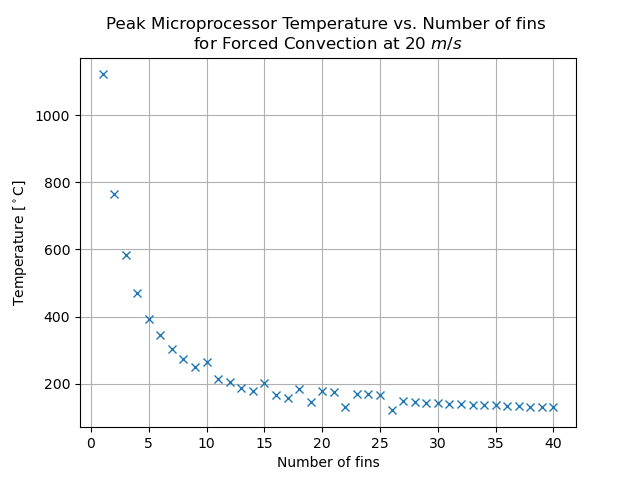
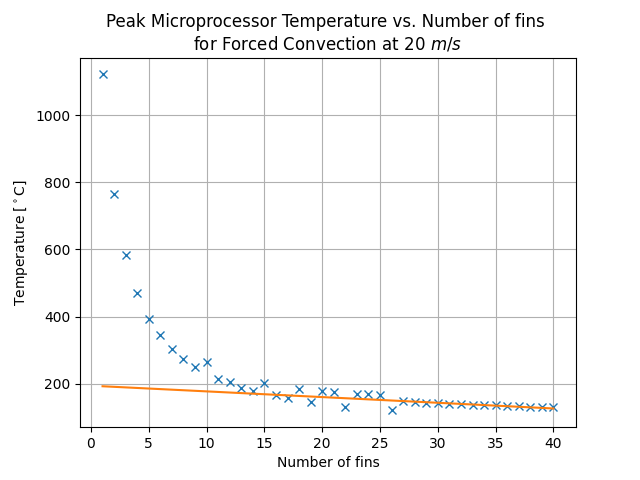
done

diff --git a/project_4/main.py b/project_4/main.py
@@ -3,6 +3,20 @@ import numpy as np
 import os
 import time
 
+##################################################################################
+###################################### Note ######################################
+##################################################################################
+
+# Github copilot was used throughout this project, it was used for:
+#    - completing sentences for comenting
+#    - write similar code to code that were already written by hand for another similar situations 
+#    - auto fill values for default parameters for functions that written and set by me 
+
+# it was not used for:
+#    - writing code from scratch, that was not similar to code that was already written by hand
+#    - desgining any of the structures or writting entire functions
+#    - providing computational methods that were not already given to me
+
 
 # each block runs independently, only uncomment sections being used
 
@@ -271,33 +285,33 @@ def find_ini_T(lower_limit, upper_limit, max_iterations=2000, max_repeat=20, cas
 # print(data)
 # np.savetxt('project_4\\forced_convection\\ini_T_change_height__fin_num.txt', data, fmt='%f')
 
-with open('project_4\\forced_convection\\ini_T_change_height__fin_num.txt', 'r') as file:
-    lines = file.readlines()
-last_tried_values = []
-for line in lines:
-    if 'last tried :' in line:
-        last_tried = line.split(':')[1].strip()
-        last_tried = float(last_tried.split(' ')[0])
-        last_tried_values.append(last_tried)
-last_tried_values = np.array(last_tried_values)
-ini_temps = np.reshape(last_tried_values, (16,10))
-print(ini_temps)
-highest_Ts = np.zeros((16, 10))
-for i in range(0, 10):
-    for j in range(10, 16):
-        ini_temp = ini_temps[j,i]
-        sink = cg.grid(case_dim=[20e-3,2e-3], sink_dim=[4e-3,(i+1)*5e-3,1e-3,1e-3,j+15], nat_conv=False, delta=[0.5e-3,0.5e-3], v=20, ini_temp=ini_temp)
-        try:
-            os.mkdir(f'project_4\\forced_convection\\5pt_per_mm\\change_fin_height__fin_num\\height_{(i+1)*5}_fins_{j+15}')
-        except:
-            pass
-        highest_T = sink.iterate_K(max_iterations=20000, save=True, save_every=20000, save_folder=f'forced_convection\\5pt_per_mm\\change_fin_height__fin_num\\height_{(i+1)*5}_fins_{j+15}' , return_highest_T=True, tolerance=0.01)
-        highest_Ts[j, i] = highest_T
-        graph_count += 1
-        with open('project_4\\forced_convection\\change_fin_height__fin_num_highest_T.txt', 'a') as file:
-            string = 'for fin height = ' + str((i+1)*5) + '  number of fins = ' + str(j+15) + ' highest_T : ' + str(highest_T)
-            file.write(string + '\n')
-print(highest_Ts)
+# with open('project_4\\forced_convection\\ini_T_change_height__fin_num.txt', 'r') as file:
+#     lines = file.readlines()
+# last_tried_values = []
+# for line in lines:
+#     if 'last tried :' in line:
+#         last_tried = line.split(':')[1].strip()
+#         last_tried = float(last_tried.split(' ')[0])
+#         last_tried_values.append(last_tried)
+# last_tried_values = np.array(last_tried_values)
+# ini_temps = np.reshape(last_tried_values, (16,10))
+# print(ini_temps)
+# highest_Ts = np.zeros((16, 10))
+# for i in range(0, 10):
+#     for j in range(10, 16):
+#         ini_temp = ini_temps[j,i]
+#         sink = cg.grid(case_dim=[20e-3,2e-3], sink_dim=[4e-3,(i+1)*5e-3,1e-3,1e-3,j+15], nat_conv=False, delta=[0.5e-3,0.5e-3], v=20, ini_temp=ini_temp)
+#         try:
+#             os.mkdir(f'project_4\\forced_convection\\5pt_per_mm\\change_fin_height__num\\height_{(i+1)*5}_fins_{j+15}')
+#         except:
+#             pass
+#         highest_T = sink.iterate_K(max_iterations=20000, save=True, save_every=20000, save_folder=f'forced_convection\\5pt_per_mm\\change_fin_height__num\\height_{(i+1)*5}_fins_{j+15}' , return_highest_T=True, tolerance=0.01)
+#         highest_Ts[j, i] = highest_T
+#         graph_count += 1
+#         with open('project_4\\forced_convection\\change_fin_height__num_highest_T.txt', 'a') as file:
+#             string = 'for fin height = ' + str((i+1)*5) + '  number of fins = ' + str(j+15) + ' highest_T : ' + str(highest_T)
+#             file.write(string + '\n')
+# print(highest_Ts)
 
 # # it would be interesting to also explore the effect of varying the amount of fins as well as the speed of the wind
 # data = np.zeros((40, 10))
@@ -349,7 +363,6 @@ print(highest_Ts)
 #     file.write(string + '\n')
 
 
-## to do
 # changing fin heights and number of fins, spacing changed to 1mm, for max heat dissipiation
 # for fin_num in range (20, 25):
 #     for fin_height in range(5, 51, 5):

diff --git a/project_4/forced_convection/change_fin_height__num_plot.py b/project_4/forced_convection/change_fin_height__num_plot.py
@@ -1,0 +1,30 @@
+import numpy as np
+import matplotlib.pyplot as plt
+
+# Import data
+with open('project_4\\forced_convection\change_fin_height__num_highest_T.txt', 'r') as f:
+    lines = f.readlines()
+    
+temperatures = []
+for line in lines:
+    temp = line.split(':')[1].strip()
+    temperatures.append(float(temp))
+temperatures = np.array(temperatures)
+temperatures = temperatures.reshape(10, 11)
+
+print(temperatures)
+
+
+# Plotting
+fin_heights = np.linspace(5, 50, 10)
+fin_num = np.linspace(20, 30, 11)
+fin_num, fin_heights = np.meshgrid(fin_num, fin_heights)
+
+fig = plt.figure()
+ax = plt.axes(projection='3d')
+ax.set_title('Peak Microprocessor Temperature\n vs. Fin Height and Fin Number')
+ax.set_xlabel('Fin Height [mm]')
+ax.set_ylabel('Fin Number')
+ax.set_zlabel('Temperature [$^\circ$C]')
+ax.plot_surface(fin_heights, fin_num, temperatures, cmap='viridis')
+plt.show()

diff --git a/project_4/natural_convection/fin_num_plot.py b/project_4/natural_convection/fin_num_plot.py
@@ -14,7 +14,7 @@ temperatures = temperatures + 20
 
 # Plot data
 plt.title('Peak Microprocessor Temperature vs. Number of fins')
-plt.plot(np.linspace(1,39,39),temperatures, 'x')
+plt.plot(np.linspace(1,40,40),temperatures, 'x')
 plt.grid()
 plt.xlabel('Number of fins')
 plt.ylabel('Temperature [$^\circ$C]')
@@ -25,8 +25,8 @@ plt.ylabel('Temperature [$^\circ$C]')
 #     return a*np.exp(-b*x) + c
 def f(x, a,b):
     return a*x + b
-popt, pcov = opt.curve_fit(f,  np.linspace(20,39,19),  temperatures[20:])
-plt.plot(np.linspace(1,39,39), f(np.linspace(1,39,39), *popt))
+popt, pcov = opt.curve_fit(f,  np.linspace(20,40,20),  temperatures[20:])
+plt.plot(np.linspace(1,40,40), f(np.linspace(1,40,40), *popt))
 print(popt)
 
 # plt.show()

diff --git a/project_4/forced_convection/20ms_finNum_plot.py b/project_4/forced_convection/20ms_finNum_plot.py
@@ -29,6 +29,7 @@ def f(x, a,b):
     return a*x + b
 popt, pcov = opt.curve_fit(f,  np.linspace(15,40,25),  temperatures[15:])
 plt.plot(np.linspace(1,40,40), f(np.linspace(1,40,40), *popt))
-plt.show()
+print(popt)
+# plt.show()
 #saving plot
-# plt.savefig('project_4\\forced_convection\\fin_num_20ms.png')
+plt.savefig('project_4\\forced_convection\\fin_num_20ms.png')
